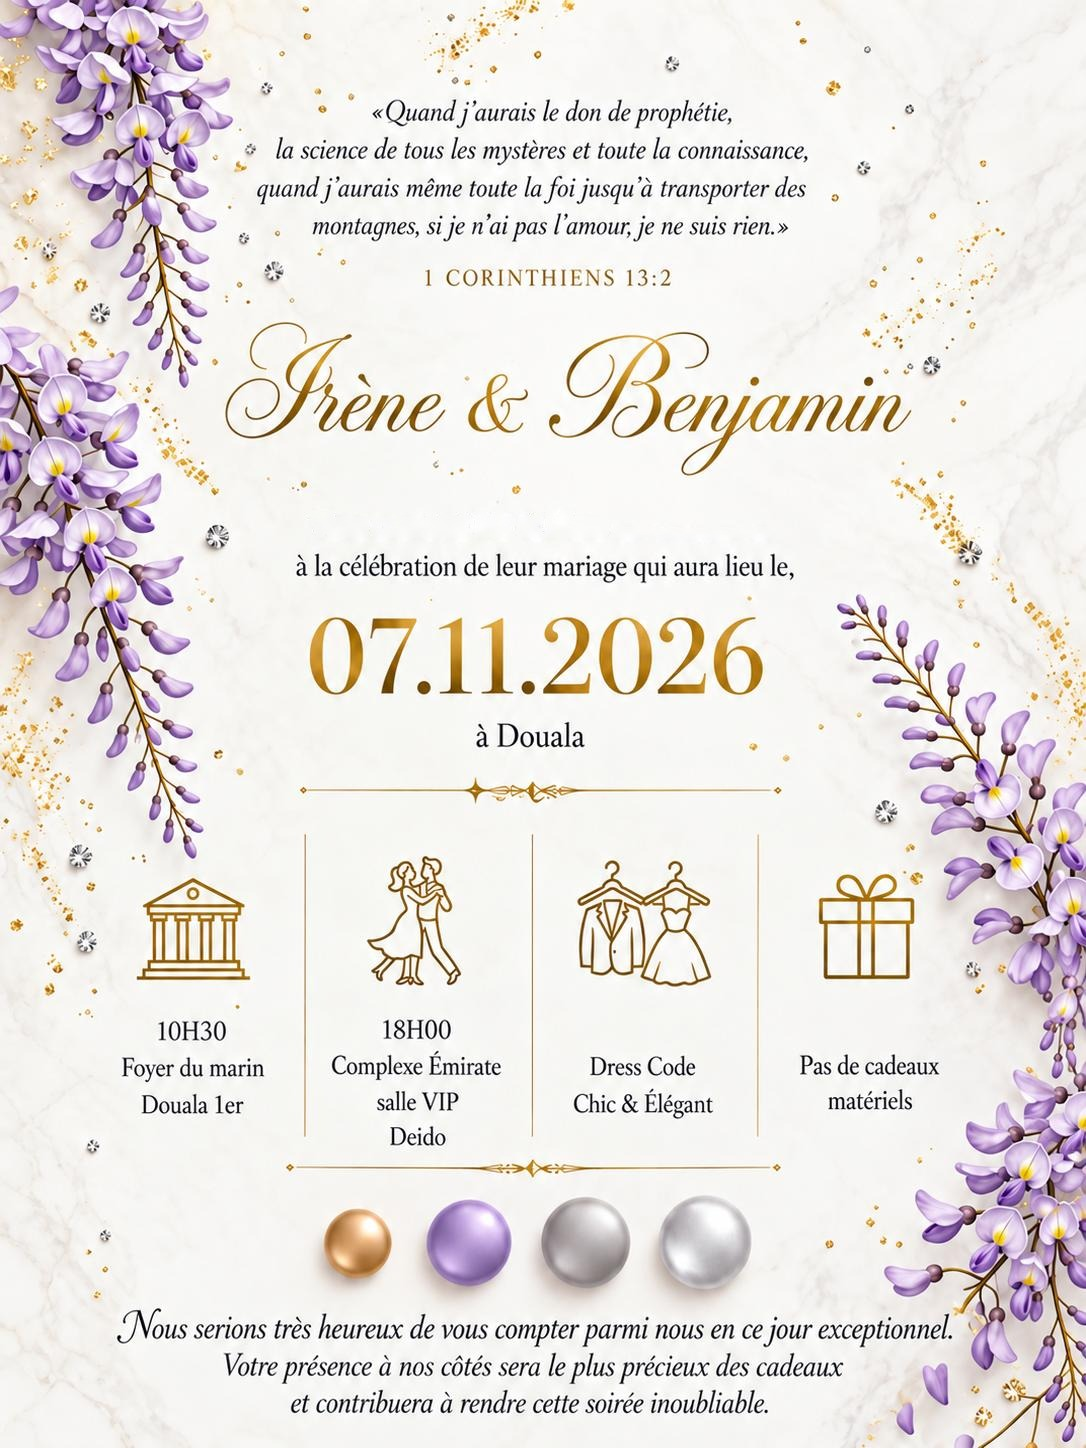
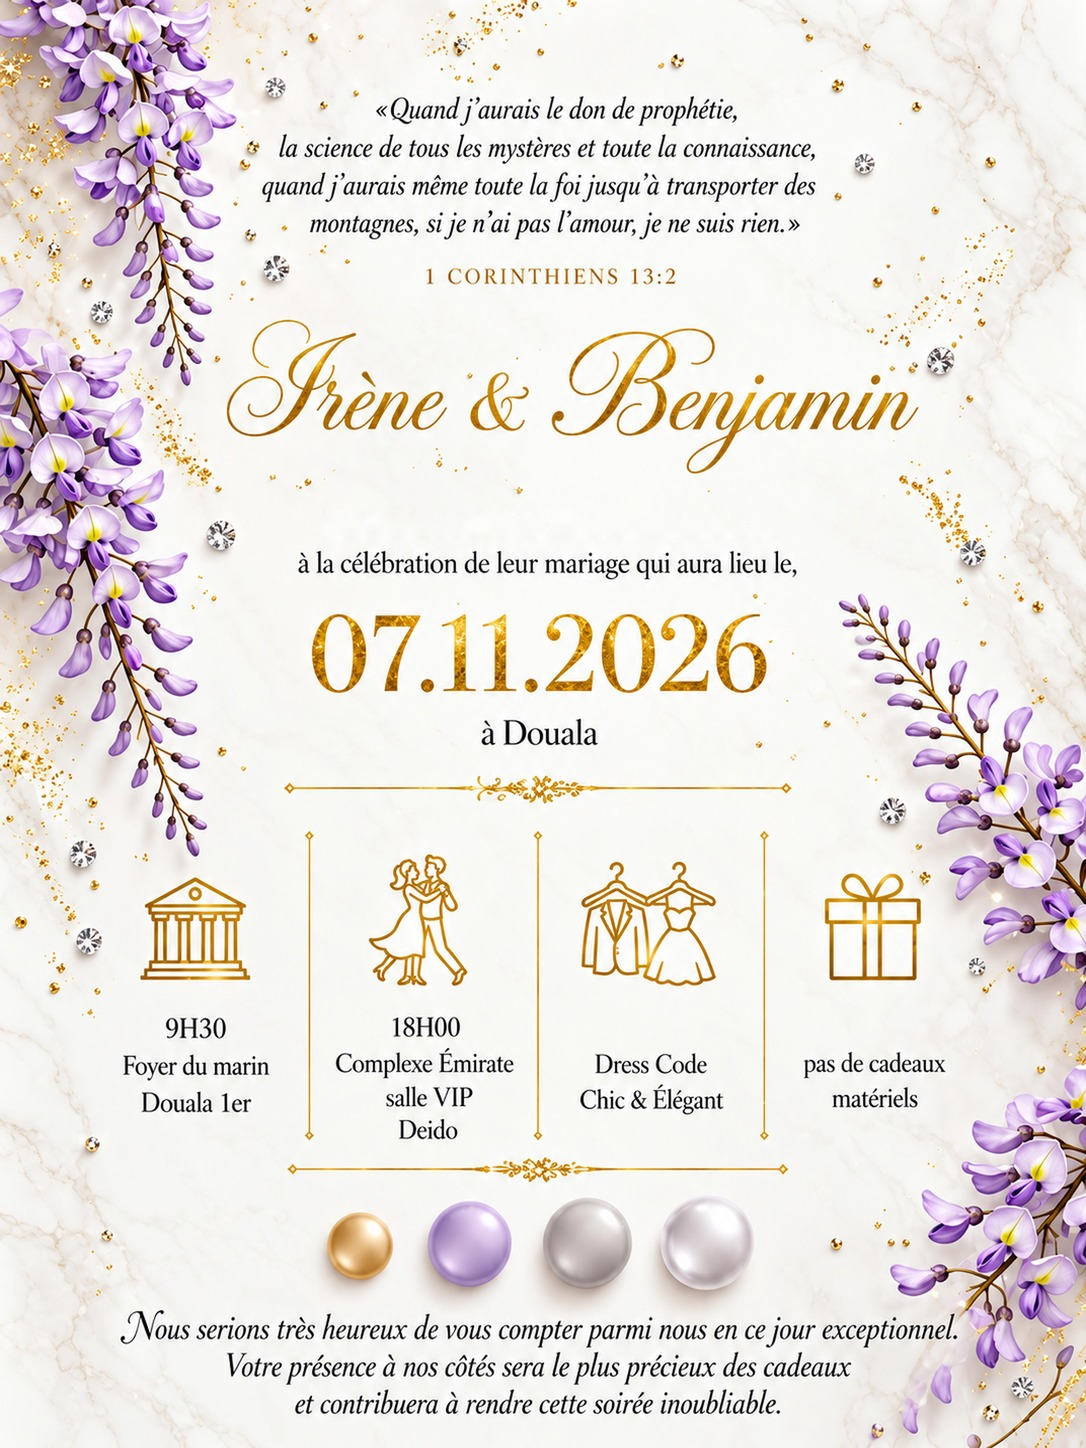
changing the time on the invitation card and adding couple picture

diff --git a/public/assets/js/features/rsvp.js b/public/assets/js/features/rsvp.js
@@ -1,12 +1,11 @@
 import { $ } from '../utils/dom.js';
 import { state } from '../state.js';
-import { store } from '../utils/storage.js';
 import { api } from '../services/api.js';
 import { toast } from '../ui/toast.js';
 import { drawQR } from './qr.js';
-
+ 
 const attendance = () => (document.querySelector('input[name=att]:checked') || {}).value;
-
+ 
 /** Locks the form once the guest has answered ("Réponse déjà enregistrée"). */
 function lockForm(on) {
   ['fname', 'fphone', 'fnote'].forEach(id => { $(id).disabled = on || (id === 'fname' && !!state.token); });
@@ -16,18 +15,19 @@ function lockForm(on) {
   $('done').hidden = !on;
   $('edit').hidden = !on;
 }
-
+ 
 /** Paints the whole page from state.guest. */
 export function renderGuest() {
   const g = state.guest;
   $('fname').value = g.name || '';
   $('fphone').value = g.phone || '';
   $('fnote').value = g.note || '';
-  $('gname').textContent = g.name ? g.name : 'Cher(e) invité(e)';
+  // the greeting shows a name only for a personal link (?g=...); an open link always says "Cher(e) invité(e)"
+  $('gname').textContent = state.token && g.name ? g.name : 'Cher(e) invité(e)';
   if (g.table) { $('tbl').hidden = false; $('tbl').textContent = '★ NUMÉRO DE TABLE : ' + g.table; }
   document.querySelectorAll('input[name=att]').forEach(r => { r.checked = r.value === g.status; });
   lockForm(!!g.status);
-
+ 
   const accepted = g.status === 'accepted';       // the QR code and ticket are only for guests who confirmed
   $('passSec').hidden = !accepted;
   if (accepted) {
@@ -37,7 +37,7 @@ export function renderGuest() {
     $('passSec').classList.add('in');
   }
 }
-
+ 
 async function submit(e) {
   const name = $('fname').value.trim();
   const status = attendance();
@@ -50,7 +50,6 @@ async function submit(e) {
       ...state.guest, name: state.token ? state.guest.name : name, status,
       phone: $('fphone').value, note: $('fnote').value,
     };
-    if (!state.token) store.set('guest', state.guest);
     renderGuest();
     if (status === 'accepted') {
       toast('Merci ! Votre billet est prêt 🎉');
@@ -58,12 +57,12 @@ async function submit(e) {
     } else toast('Réponse enregistrée');
   } catch (err) { toast(err.message); $('submit').disabled = false; }
 }
-
+ 
 export function initRsvp() {
   $('edit').onclick = () => lockForm(false);
   $('submit').onclick = submit;
 }
-
+ 
 /** With a personal link (?g=...), loads the guest's name, table and previous answer from the server. */
 export async function loadGuest() {
   if (!state.token) return;

diff --git a/public/assets/js/state.js b/public/assets/js/state.js
@@ -1,9 +1,22 @@
-import { store } from './utils/storage.js';
+/*import { store } from './utils/storage.js';*/
 
 /** Shared state: the personal-link token (if any) and the current guest. */
-const token = new URLSearchParams(location.search).get('g');
+/*const token = new URLSearchParams(location.search).get('g');
 
 export const state = {
   token,
   guest: token ? { name: '', status: '' } : store.get('guest', { name: '', status: '' }),
+};*/
+
+
+/** Shared state: the personal-link token (if any) and the current guest. */
+const token = new URLSearchParams(location.search).get('g');
+ 
+// The open link never remembers anyone: the form always starts empty.
+// (Removes what an earlier version of the site may have saved on this device.)
+try { localStorage.removeItem('guest'); } catch (e) { /* storage blocked: nothing to remove */ }
+ 
+export const state = {
+  token,
+  guest: { name: '', status: '' },
 };

diff --git a/public/assets/js/features/ticket.js b/public/assets/js/features/ticket.js
@@ -32,7 +32,7 @@ async function drawTicket(){
   const ctx = c.getContext('2d');
   const SCRIPT = '"Pinyon Script", "Brush Script MT", cursive', SERIF = '"Cormorant Garamond", Georgia, serif';
   const INK = '#2e2a28', GOLD = '#a8741a', SOFT = '#6b5d4e';
-  const who = state.guest.name || 'cher invité';
+  const who = (state.guest.name || 'cher invité').toLocaleUpperCase('fr-FR');
 
   ctx.drawImage(bg, 0, 0);                                    // the invitation, unchanged
   say(ctx, 'Vous convient ' + who, W / 2 - 2, 534, '600 ', SERIF, 38, 520, INK);   // replaces the dotted line
